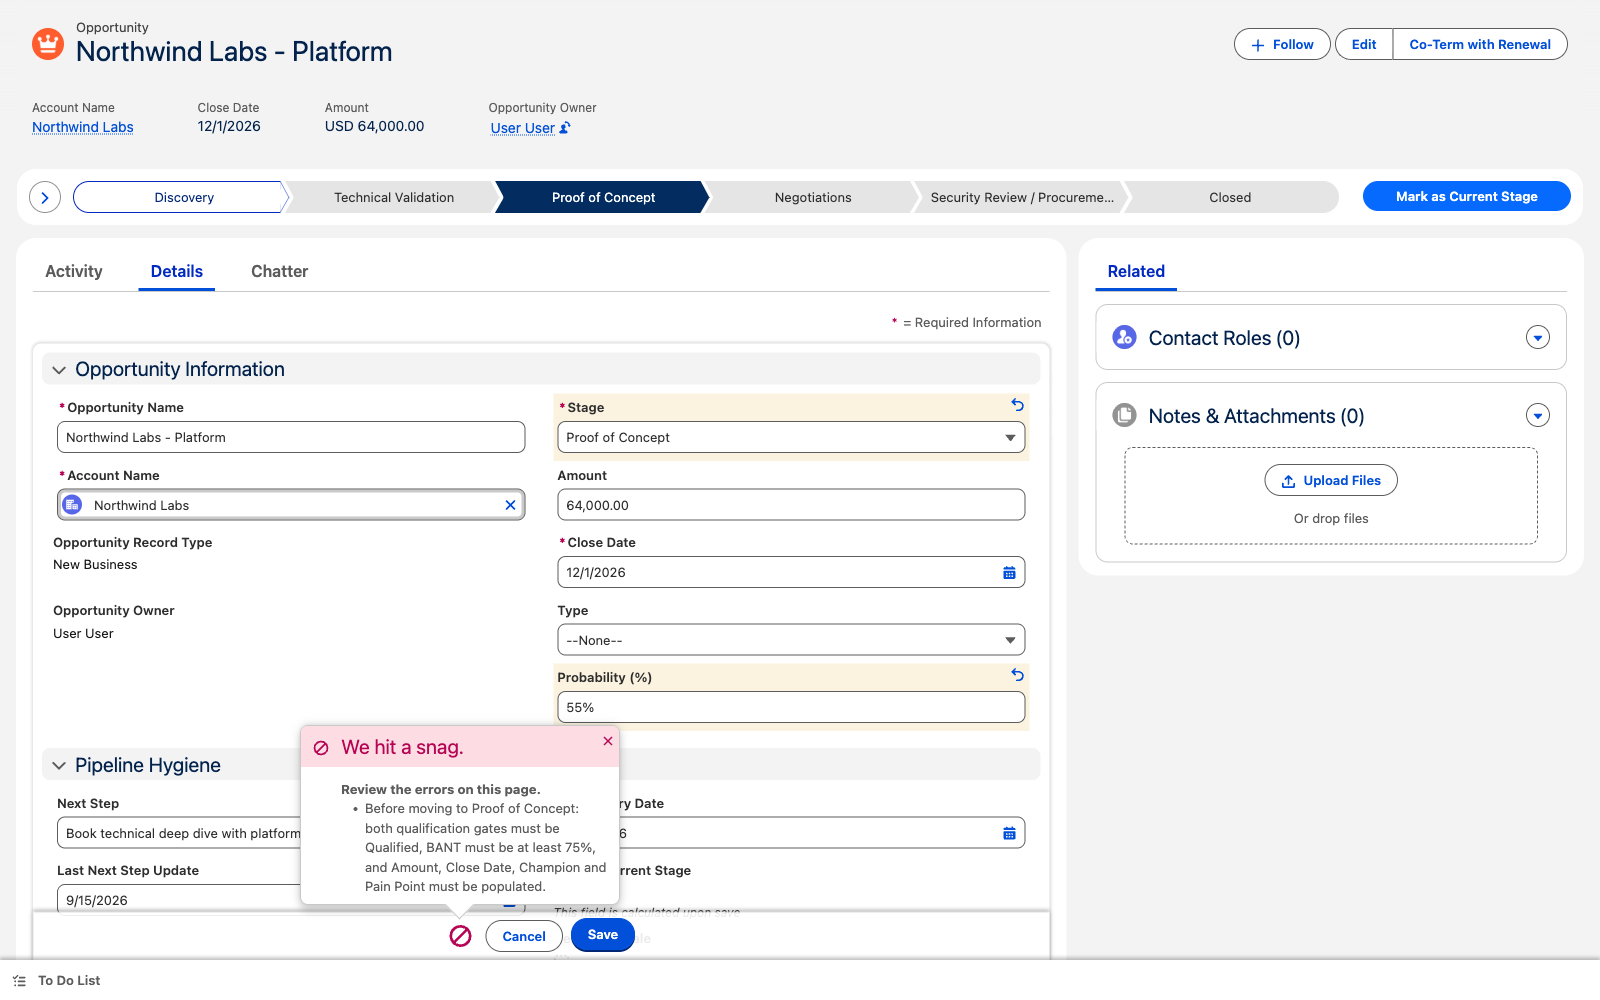
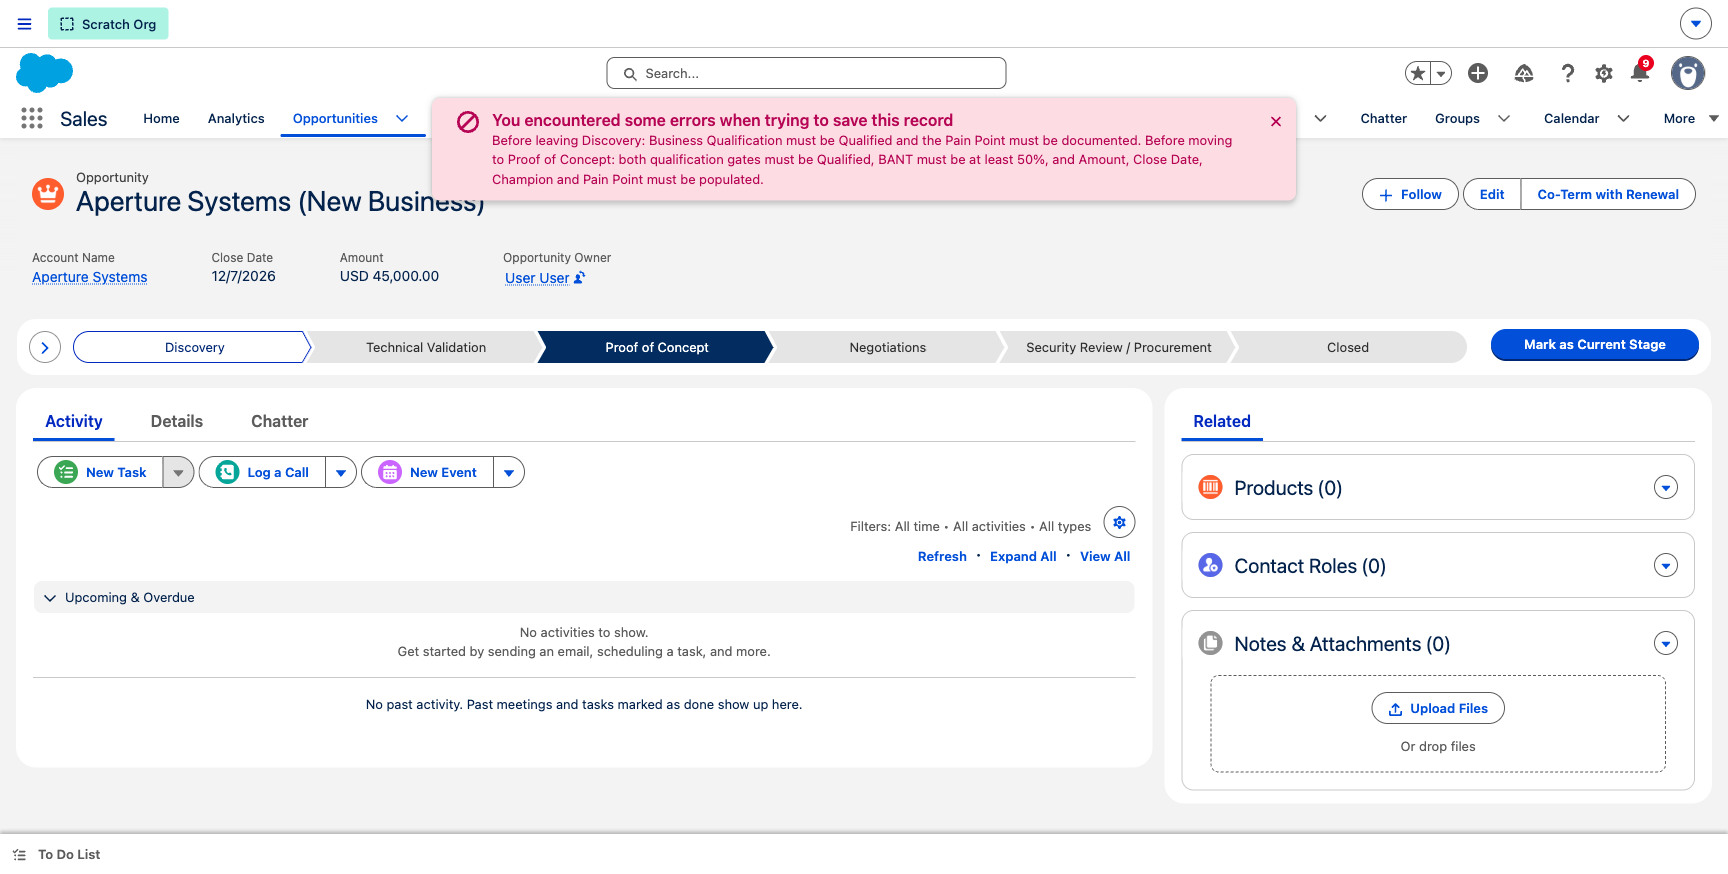
Update guide for the 23 Sep build
- BANT threshold 75% -> 50% throughout, and Business Qualification now
  explained as calculated rather than typed
- New section: Who else is in this deal? (Contact Roles, Champion role,
  personas pending values)
- New section: Where do I record what they run? (technical environment
  moved from the opportunity to the account)
- Closed Won now states that contract dates are enforced, and that the
  account flips to Customer
- Expansion section gains Developer Coverage as the whitespace signal
- Mission Control added to the morning routine, with a screenshot
- Three new gate messages added to the error table
- Field reference gains SE Owner, Corridor Deployment Model, Developers
  In Scope, Developer Coverage, Total Seats, Business Qualification
- Recaptured gate_error.png (was showing the old 75% message)

diff --git a/index.html b/index.html
@@ -148,6 +148,7 @@ code{font-family:var(--mono);font-size:.87em;background:var(--paper2);border-rad
     <li><a href="#new">I've got a new lead</a></li>
     <li><a href="#met">I've had the meeting</a></li>
     <li><a href="#move">I'm moving a deal forward</a></li>
+    <li><a href="#people">Who else is in this deal?</a></li>
     <li><a href="#blocked">Salesforce won't let me move my deal</a></li>
     <li><a href="#poc">I'm running a POC</a></li>
     <li><a href="#approval">I need pricing approved</a></li>
@@ -155,6 +156,7 @@ code{font-family:var(--mono);font-size:.87em;background:var(--paper2);border-rad
     <li><a href="#lost">I've lost the deal</a></li>
     <li><a href="#expand">I want to sell more to a customer</a></li>
     <li><a href="#morning">What should I check each morning?</a></li>
+    <li><a href="#env">Where do I record what they run?</a></li>
     <li><a href="#fields">What is this field for?</a></li>
     <li><a href="#changed">What changed from Monica</a></li>
   </ol>
@@ -220,8 +222,8 @@ code{font-family:var(--mono);font-size:.87em;background:var(--paper2);border-rad
   <p>Here is what each stage needs before you can leave it. Nothing else is enforced &mdash; fill in the rest as you learn it.</p>
   <div class="tw"><table>
     <tr><th>Stage</th><th>Before you can move on</th></tr>
-    <tr><td class="k">Discovery</td><td>Business Qualification set to <b>Qualified</b>, and the <b>Pain Point</b> written down</td></tr>
-    <tr><td class="k">Technical Validation</td><td>Technical Qualification <b>Qualified</b>, BANT <b>75%+</b>, plus Amount, Close Date and Champion</td></tr>
+    <tr><td class="k">Discovery</td><td>Business Qualification showing <b>Qualified</b> &mdash; it sets itself, and the <b>Pain Point</b> written down</td></tr>
+    <tr><td class="k">Technical Validation</td><td>Technical Qualification <b>Qualified</b>, BANT <b>50%+</b>, plus Amount, Close Date and Champion</td></tr>
     <tr><td class="k">Proof of Concept</td><td>Record the <b>Tech Win</b> result &mdash; yes or no, with a reason</td></tr>
     <tr><td class="k">Negotiations</td><td>Pricing <b>approved</b> (see below)</td></tr>
     <tr><td class="k">Security Review / Procurement</td><td>Nothing enforced &mdash; move it when the contract is signed</td></tr>
@@ -229,7 +231,7 @@ code{font-family:var(--mono);font-size:.87em;background:var(--paper2);border-rad
   </table></div>
   <figure>
     <img src="shots/bant.png" alt="The BANT section showing budget, authority, need and timeline with a 75 percent score" loading="lazy">
-    <figcaption>BANT only counts answers marked <b>Confirmed</b>. <code>Estimated</code> and <code>Partial</code> score zero &mdash; three out of four gets you to 75%.</figcaption>
+    <figcaption>BANT only counts answers marked <b>Confirmed</b>. <code>Estimated</code> and <code>Partial</code> score zero &mdash; two out of four gets you to 50%, which is the bar.</figcaption>
   </figure><figure><img src="shots/techqual.png" alt="The Technical Qualification section, filled in by your SE. You do not need to complete this yourself &mdash; but the deal cannot reach POC until they have." loading="lazy"><figcaption>The Technical Qualification section, filled in by your SE. You do not need to complete this yourself &mdash; but the deal cannot reach POC until they have.</figcaption></figure>
   <div class="auto">
     <h3>Salesforce does this for you</h3>
@@ -247,6 +249,26 @@ code{font-family:var(--mono);font-size:.87em;background:var(--paper2);border-rad
 <hr class="rule">
 
 <!-- 4 -->
+<section class="task" id="people">
+  <h2>Who else is in this deal?</h2>
+  <p class="who">Account Executive &amp; Sales Engineer</p>
+  <p>One champion is never the whole story. Contact Roles are where you record everyone else who matters &mdash; the person who signs, the one who runs security review, the one who will actually use it.</p>
+  <div class="nav"><span class="lbl">Click path</span><b>open the deal</b><span class="c">&rsaquo;</span><b>Related</b><span class="c">&rsaquo;</span><b>Contact Roles</b><span class="c">&rsaquo;</span><b>Add Contact Roles</b></div>
+  <ol class="steps">
+    <li>Add every person you have actually spoken to. A name with no role is still better than a name you never wrote down.</li>
+    <li>Give each of them a <b>Role</b>. Decision Maker, Economic Buyer, Technical Buyer, Evaluator and so on.</li>
+    <li>Mark one of them <b>Champion</b>.</li>
+  </ol>
+  <div class="auto">
+    <h3>Salesforce does this for you</h3>
+    <ul>
+      <li>Setting someone as <b>Champion</b> fills in the Champion field on the deal for you &mdash; which is one of the things the POC gate is looking for. You don't set it twice.</li>
+      <li>Pulls each person's job title and time zone through from their contact record, so you can see at a glance who you can call before lunch.</li>
+    </ul>
+  </div>
+  <p><b>Buyer persona and user persona</b> are on each contact role too. They're empty for now &mdash; Corridor is still deciding the list &mdash; so leave them until we've agreed the values.</p>
+</section>
+
 <section class="task" id="blocked">
   <h2>Salesforce won't let me move my deal</h2>
   <p class="who">Everyone &mdash; read this one</p>
@@ -257,12 +279,15 @@ code{font-family:var(--mono);font-size:.87em;background:var(--paper2);border-rad
   </figure>
   <div class="tw"><table>
     <tr><th>If it says</th><th>Do this</th></tr>
-    <tr><td class="k">Both qualification gates must be Qualified</td><td>Set <b>Business Qualification</b> yourself. Ask your SE to set <b>Technical Qualification</b> &mdash; it is their call, not yours.</td></tr>
-    <tr><td class="k">BANT must be at least 75%</td><td>You need three of the four marked <b>Confirmed</b>. Check the BANT section &mdash; <code>Estimated</code> doesn't count.</td></tr>
+    <tr><td class="k">Both qualification gates must be Qualified</td><td><b>Business Qualification sets itself.</b> It flips to Qualified once two of the four BANT are Confirmed and a Champion is named &mdash; so fix those, not the field. Technical Qualification is your SE's call.</td></tr>
+    <tr><td class="k">BANT must be at least 50%</td><td>You need two of the four marked <b>Confirmed</b>. Check the BANT section &mdash; <code>Estimated</code> doesn't count.</td></tr>
     <tr><td class="k">Amount must be populated</td><td>Put in your best number. It can change later.</td></tr>
     <tr><td class="k">Close Date must be populated</td><td>It cannot be in the past.</td></tr>
     <tr><td class="k">Champion must be populated</td><td>Pick the contact who is arguing for you internally.</td></tr>
     <tr><td class="k">Pain Point must be populated</td><td>Write what is actually broken for them, in their words. No pain, no deal.</td></tr>
+    <tr><td class="k">Contract start and end dates must be populated</td><td>You are closing a deal won. Those two dates build next year&rsquo;s renewal and the account record, so they are asked for now rather than chased later.</td></tr>
+    <tr><td class="k">Give a reason when you override</td><td>You ticked the Business Qualification override. Say why in a line &mdash; it is the only record of that judgement call.</td></tr>
+    <tr><td class="k">Developers In Scope cannot exceed the account total</td><td>Check <b>Total Developers</b> on the account. If that number is wrong, fix it there &mdash; it lives on the account now, not the deal.</td></tr>
     <tr><td class="k">Pricing approval is required</td><td>Submit for approval and wait for the decision &mdash; see below.</td></tr>
     <tr><td class="k">Record a Win / Loss Reason</td><td>You're closing it lost and haven't said why.</td></tr>
   </table></div>
@@ -335,13 +360,14 @@ code{font-family:var(--mono);font-size:.87em;background:var(--paper2);border-rad
     <li>Fill in the <b>Contract Details</b> &mdash; start date, end date, term, payment terms, billing frequency.</li>
     <li>Set the stage to <b>Closed Won</b>.</li>
     <li>Add a <b>Win Reason</b> and a note on why you won, while it's fresh.</li>
-  </ol><figure><img src="shots/contract_section.png" alt="Fill this in before you close the deal &mdash; these five fields are what next year's renewal gets built from." loading="lazy"><figcaption>Fill this in <b>before</b> you close the deal &mdash; these five fields are what next year's renewal gets built from.</figcaption></figure><figure><img src="shots/renewal_created.png" alt="And this is the renewal, created on its own the moment the deal closed, with the products already on it." loading="lazy"><figcaption>And this is the renewal, created on its own the moment the deal closed, with the products already on it.</figcaption></figure>
+  </ol><figure><img src="shots/contract_section.png" alt="<b>Salesforce now stops you closing without the start and end dates.</b> They are what next year&rsquo;s renewal gets built from, and they stamp onto the account as the live contract term." loading="lazy"><figcaption>Fill this in <b>before</b> you close the deal &mdash; these five fields are what next year's renewal gets built from.</figcaption></figure><figure><img src="shots/renewal_created.png" alt="And this is the renewal, created on its own the moment the deal closed, with the products already on it." loading="lazy"><figcaption>And this is the renewal, created on its own the moment the deal closed, with the products already on it.</figcaption></figure>
   <div class="auto">
     <h3>Then Salesforce does the rest</h3>
     <ul>
       <li>Creates next year's <b>renewal opportunity</b>, dated from the end of this contract.</li>
       <li>Copies every product line onto it with the right dates. You don't rebuild the deal.</li>
-      <li>Posts the win to the team.</li>
+      <li>Flips the account from <b>Prospect</b> to <b>Customer</b>, and copies the contract dates onto it.
+      </li><li>Posts the win to the team.</li>
       <li>Tells the office manager to send the customer their swag, with the address.</li>
     </ul>
   </div>
@@ -388,7 +414,7 @@ code{font-family:var(--mono);font-size:.87em;background:var(--paper2);border-rad
   </figure>
   <div class="heads">
     <h3>Do this rather than co-terming by hand</h3>
-    <p>Lining up dates manually is where expansion revenue usually gets mis-dated &mdash; and it's the customer who notices, on their invoice.</p>
+    <p>Lining up dates manually is where expansion revenue usually gets mis-dated &mdash; and it's the customer who notices, on their invoice.</p><p><b>Don't wait to be asked.</b> Every deal records how many of a customer's developers it actually covers. <b>Developer Coverage</b> is that number against the company total, and anything under 100% is room you already sold into once. Basalt Security is on 45% &mdash; 461 of 1,025 developers &mdash; so there are 564 sitting outside the contract. The <b>Expansion Whitespace</b> tile on the leadership dashboard is that list, sorted by the size of the gap.</p>
   </div>
   <div class="try">
     <span class="lbl">Try it</span>
@@ -418,15 +444,39 @@ code{font-family:var(--mono);font-size:.87em;background:var(--paper2);border-rad
     <img src="shots/engagement.png" alt="The engagement section on an account showing 95 days since sales activity and 5 days since marketing activity" loading="lazy">
     <figcaption>Sales and marketing activity are tracked separately on purpose. This account looks active &mdash; but nobody in sales has spoken to them for 95 days.</figcaption>
   </figure><figure><img src="shots/cold_accounts.png" alt="The Cold Accounts list does the same job across your whole book, sorted worst-first." loading="lazy"><figcaption>The <b>Cold Accounts</b> list does the same job across your whole book, sorted worst-first.</figcaption></figure><figure><img src="shots/dashboard.png" alt="And the leadership dashboard, if you want the whole picture in one screen." loading="lazy"><figcaption>And the leadership dashboard, if you want the whole picture in one screen.</figcaption></figure>
+  <p><b>Mission Control</b> is the one on the wall. Three blocks, left to right: <b>GOALS</b> &mdash; live ARR and where each rep is against their number. <b>KUDOS</b> &mdash; what the team opened and closed this week, by name. <b>FOCUS</b> &mdash; who is live in a POV right now, how many days they have been running, and which SE owns them. If a POV is past its target end date it is visible from across the room, which is the point.</p>
+  <figure><img src="shots/mission_control.png" alt="Mission Control: GOALS, KUDOS and FOCUS across three columns, with live ARR, wins this week and who is in a POV." loading="lazy"><figcaption><b>Mission Control</b> &mdash; GOALS on the left, KUDOS underneath, FOCUS on the right. Live ARR, who closed what this week, and which customers are mid-POV.</figcaption></figure>
   <div class="try">
     <span class="lbl">Leadership</span>
-    <a class="btn" href="https://ruby-innovation-7035.scratch.lightning.force.com/lightning/r/Dashboard/01ZQL00000ALBNi2AP/view" target="_blank" rel="noopener">Sales Leadership dashboard</a>
+    <a class="btn" href="https://ruby-innovation-7035.scratch.lightning.force.com/lightning/r/Dashboard/01ZQL00000AVtaL2AT/view" target="_blank" rel="noopener">Mission Control</a>
+    <a class="btn ghost" href="https://ruby-innovation-7035.scratch.lightning.force.com/lightning/r/Dashboard/01ZQL00000ALBNi2AP/view" target="_blank" rel="noopener">Sales Leadership dashboard</a>
     <a class="btn ghost" href="https://ruby-innovation-7035.scratch.lightning.force.com/lightning/o/Report/home" target="_blank" rel="noopener">All reports</a>
   </div>
 </section>
 <hr class="rule">
 
 <!-- 11 -->
+<section class="task" id="env">
+  <h2>Where do I record what they run?</h2>
+  <p class="who">Sales Engineer</p>
+  <p><b>This moved on 23 September.</b> What a company runs &mdash; their coding agents, IDEs, operating systems, MDM, repositories, the security tooling they already have &mdash; now lives on the <b>account</b>, not the deal.</p>
+  <div class="nav"><span class="lbl">Click path</span><b>the account</b><span class="c">&rsaquo;</span><b>Details</b><span class="c">&rsaquo;</span><b>Technical Environment</b></div>
+  <p>Why: it describes the company, not one deal. Put it on the account once and it is right on the renewal, the expansion and every other opportunity you open there &mdash; instead of being re-typed each time and drifting apart.</p>
+  <figure><img src="shots/account_env.png" alt="An account record showing Firmographics and ICP, Technical Environment and Contract sections." loading="lazy"><figcaption>Aperture Systems. Note <b>Coding Agents Used</b> &mdash; Claude Code local <em>and</em> cloud, plus Cursor both ways. One field, nothing lost.</figcaption></figure>
+  <table class="tw">
+    <tr><th>On the account</th><th>Still on the deal</th></tr>
+    <tr><td>Coding Agents Used &middot; IDEs &middot; Operating Systems &middot; Mobile Device Management &middot; Code Repository Type &middot; Current SAST / SCA Stack &middot; Autonomy Level &middot; Total Developers</td>
+        <td>Developers In Scope &middot; Developer Coverage &middot; Corridor Deployment Model &middot; Project Identified &middot; Technical Qualification and its notes</td></tr>
+  </table>
+  <div class="auto">
+    <h3>Worth knowing</h3>
+    <ul>
+      <li><b>Coding agents now include where they run.</b> One value each: <em>Claude Code (Local)</em>, <em>Claude Code (Cloud)</em>, <em>Cursor (Cloud)</em>. A customer running the same agent both ways is no longer something the record can't express.</li>
+      <li>The deal shows <b>Total Developers</b> and <b>Autonomy Level</b> read-only. To change them, go to the account &mdash; that is where the truth lives.</li>
+    </ul>
+  </div>
+</section>
+
 <section class="task" id="fields">
   <h2>What is this field for?</h2>
   <p class="who">Reference</p>
@@ -439,7 +489,7 @@ code{font-family:var(--mono);font-size:.87em;background:var(--paper2);border-rad
     <tr><td class="k">Autonomy Level</td><td>How autonomous their development flow is today</td><td>SE</td></tr>
     <tr><td class="k">Current SAST / SCA Stack</td><td>What security tooling they already run</td><td>SE</td></tr>
     <tr><td class="k">BANT &mdash; the four</td><td>Only <b>Confirmed</b> counts toward the score</td><td>AE, or Gong</td></tr>
-    <tr><td class="k">BANT Score</td><td>Worked out for you. 75% is the bar for a POC</td><td>Automatic</td></tr>
+    <tr><td class="k">BANT Score</td><td>Worked out for you. 50% is the bar for a POC</td><td>Automatic</td></tr>
     <tr><td class="k">Champion</td><td>Who is arguing for you when you're not in the room</td><td>AE</td></tr>
     <tr><td class="k">Next Step</td><td>The single next thing that has to happen</td><td>AE</td></tr>
     <tr><td class="k">Days in Current Stage</td><td>How long it's sat there</td><td>Automatic</td></tr>
@@ -448,6 +498,12 @@ code{font-family:var(--mono);font-size:.87em;background:var(--paper2);border-rad
     <tr><td class="k">Contract dates</td><td>Build next year's renewal &mdash; get them right</td><td>AE</td></tr>
     <tr><td class="k">Win / Loss Reason</td><td>Why it went the way it did</td><td>AE</td></tr>
     <tr><td class="k">Last Sales Activity</td><td>When someone in sales last spoke to them</td><td>Automatic</td></tr>
+    <tr><td class="k">SE Owner</td><td>The SE on this deal. Copied from the account when the deal is created, then left alone &mdash; change it here if cover changes</td><td>AE</td></tr>
+    <tr><td class="k">Corridor Deployment Model</td><td>What the customer wants: multitenant, single tenant, EU single tenant</td><td>SE</td></tr>
+    <tr><td class="k">Developers In Scope</td><td>How many of their developers this deal covers &mdash; often not all of them</td><td>AE</td></tr>
+    <tr><td class="k">Developer Coverage</td><td>In scope against the company total. Under 100% is your expansion room</td><td>Automatic</td></tr>
+    <tr><td class="k">Total Seats</td><td>Adds up the licences on the deal, and puts the seat count in the deal name</td><td>Automatic</td></tr>
+    <tr><td class="k">Business Qualification</td><td>Sets itself from BANT and the Champion. Override it if you must, but say why</td><td>Automatic</td></tr>
   </table></div>
 </section>
 <hr class="rule">
